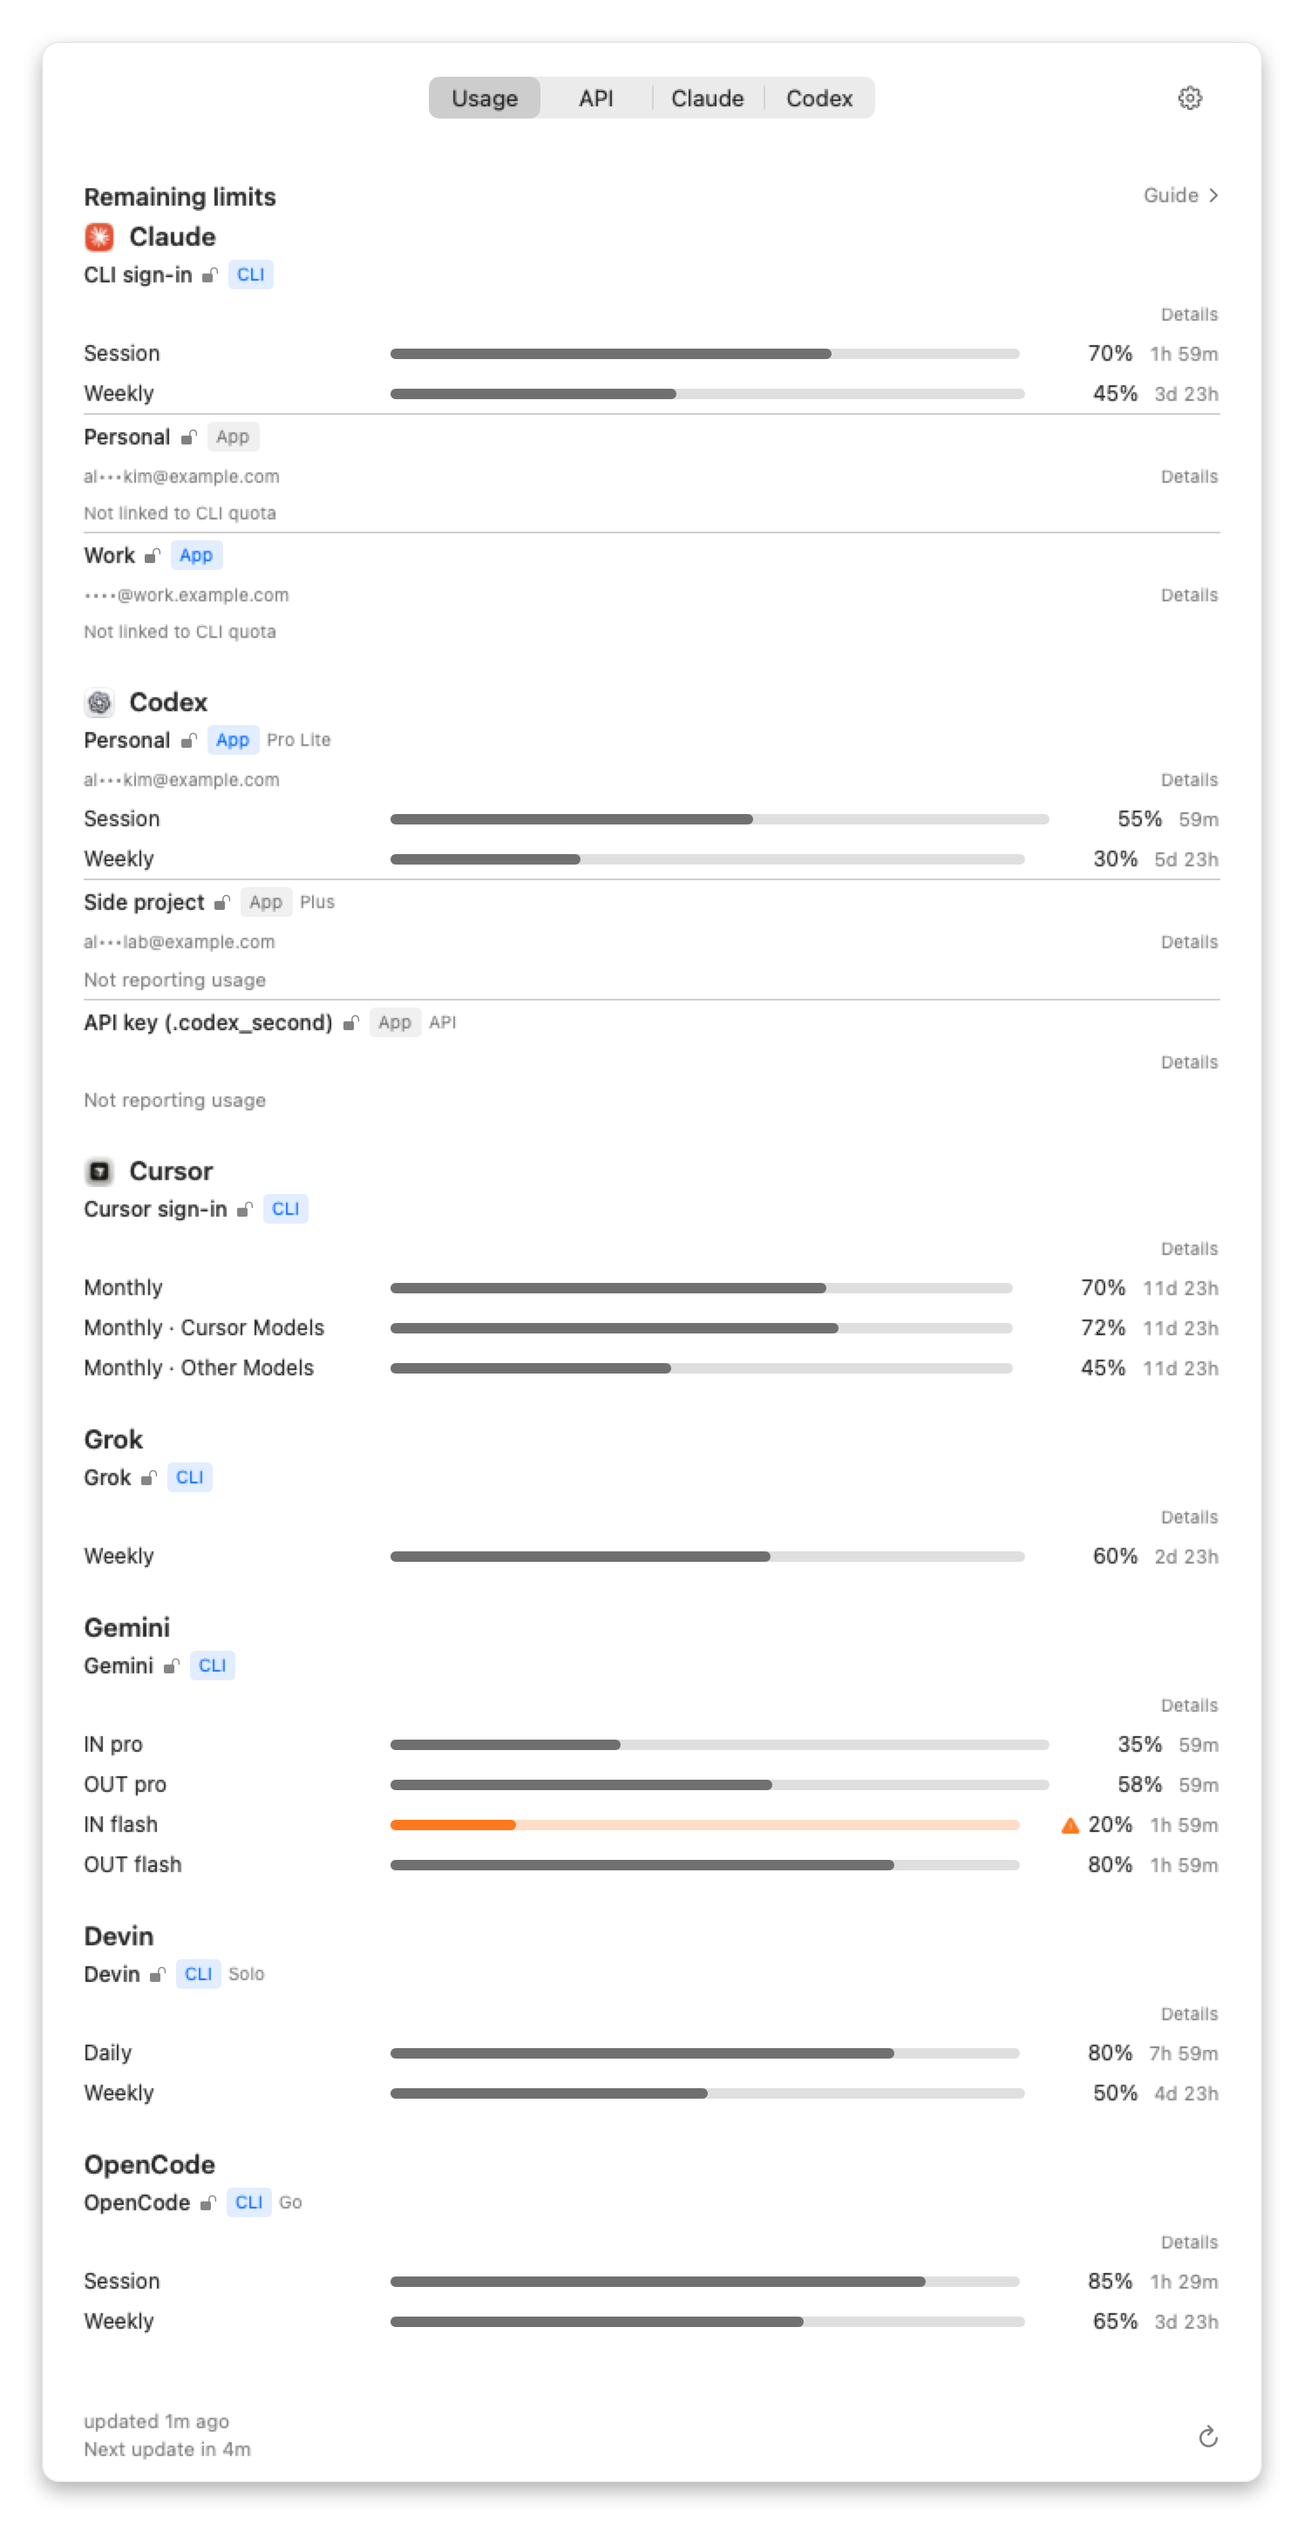
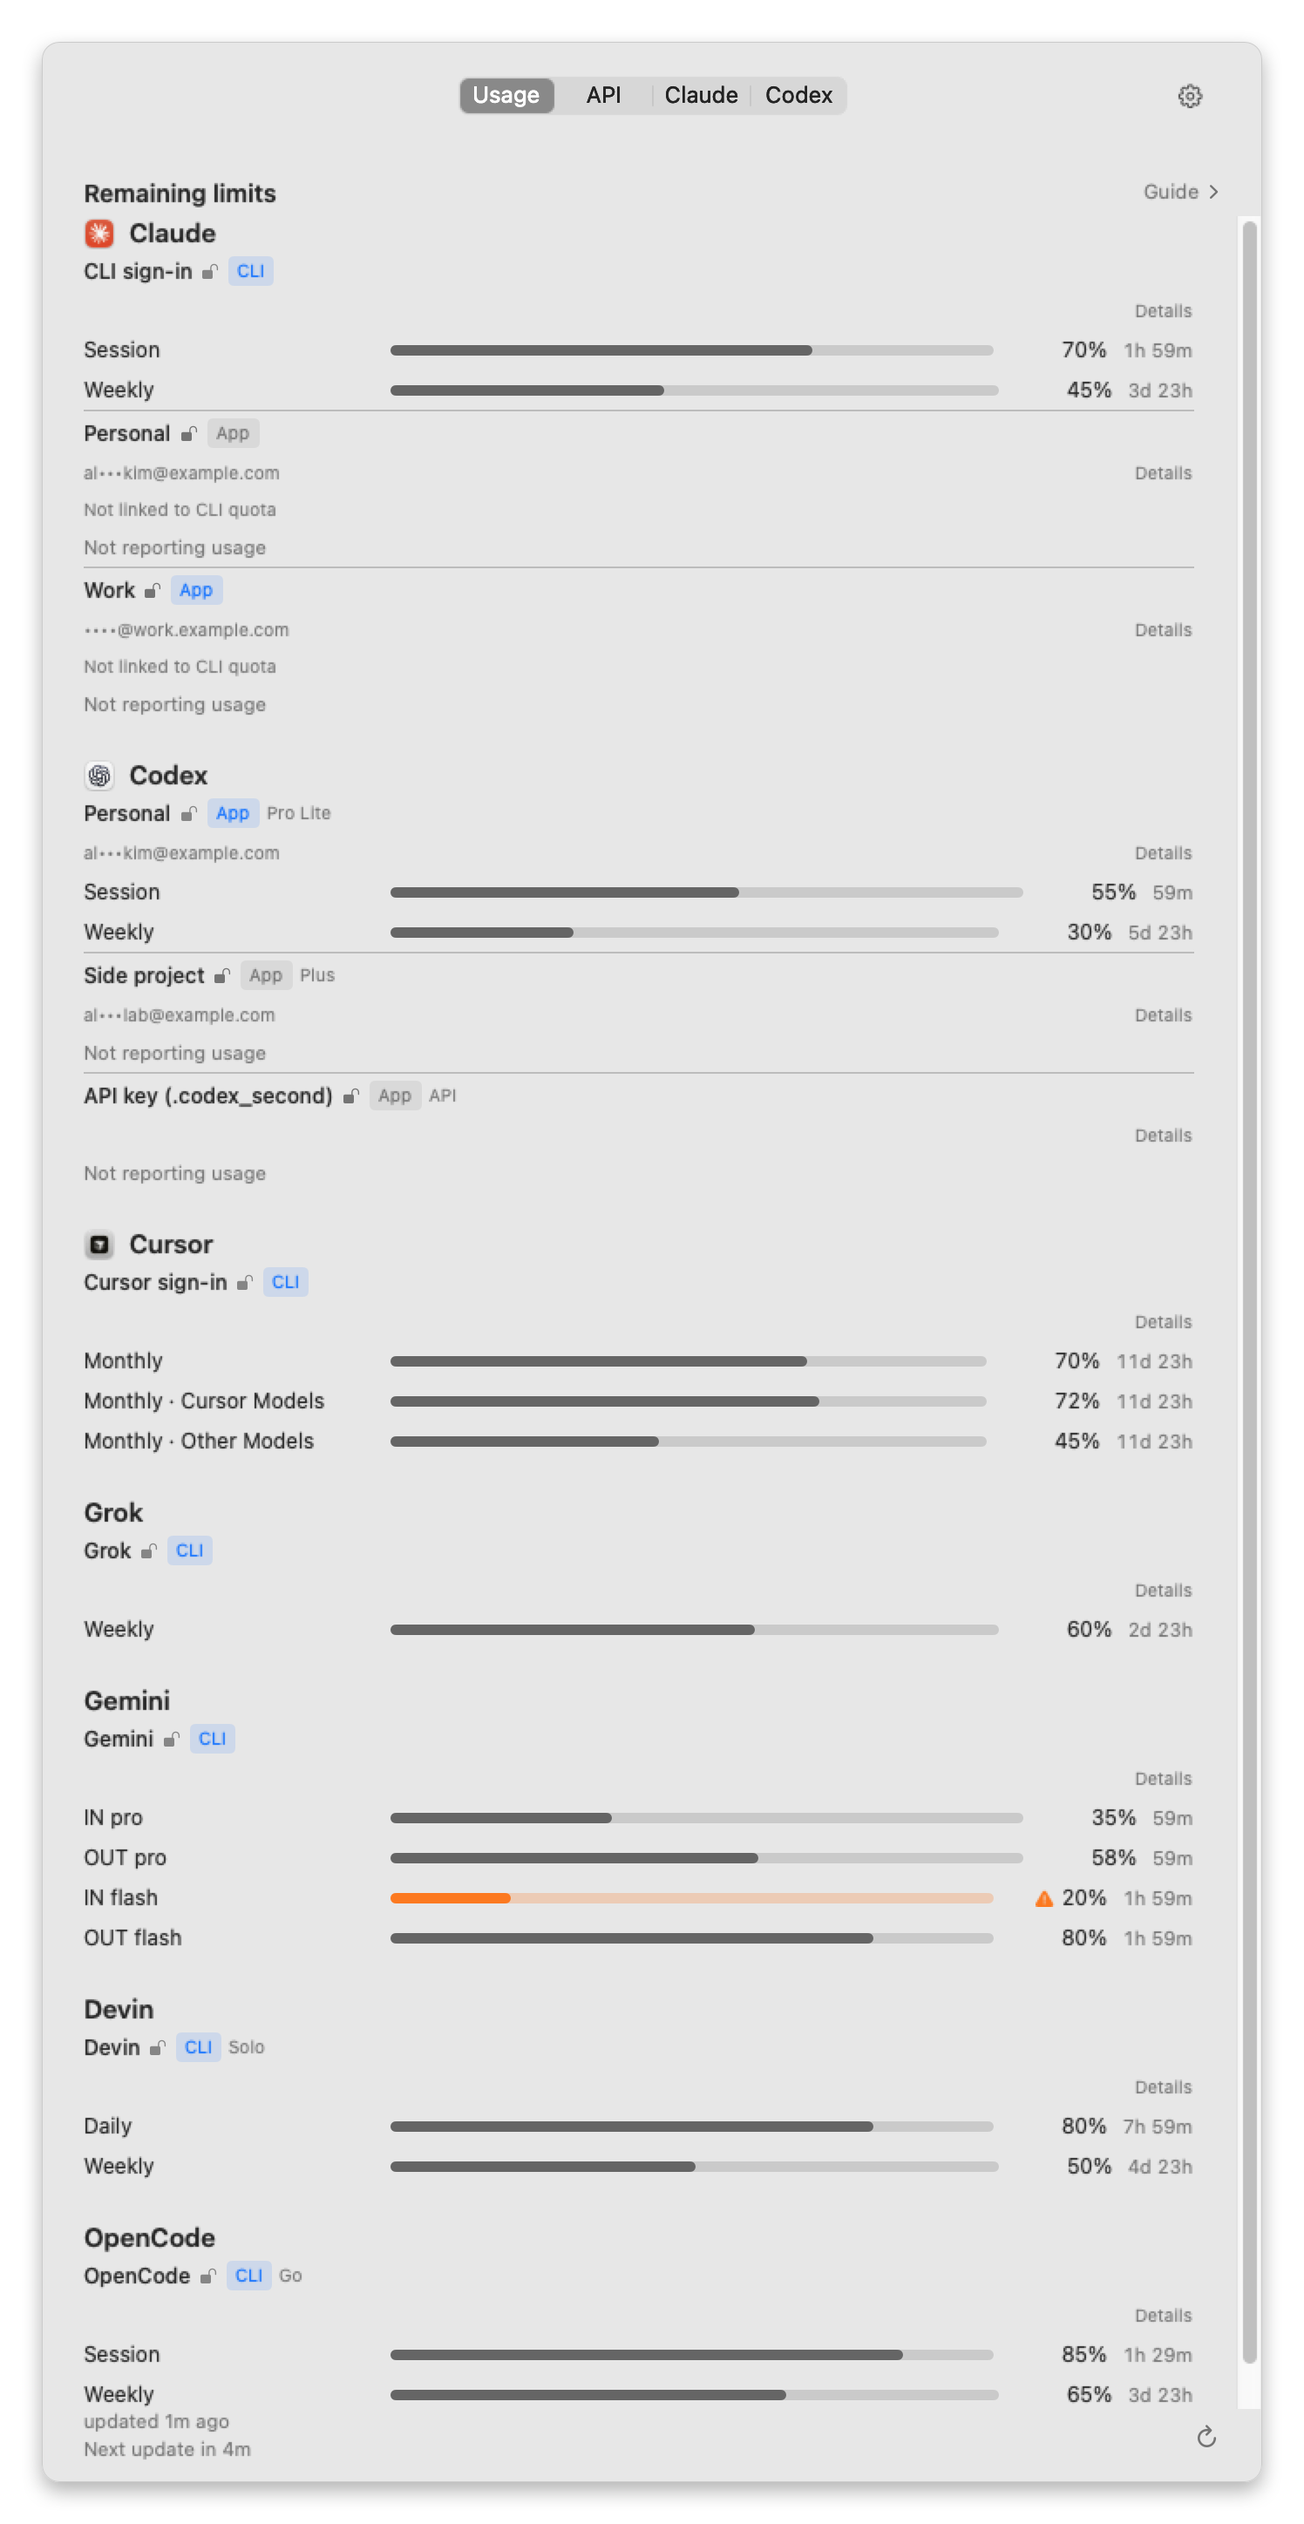
docs: refresh README screenshots and 2.3.x wording
- Regenerate every README screenshot and demo.gif (5 languages) from the
  app's demo fixtures with the 2.3.2 build; the previous set predates 2.2
- What it does: updates are checked only when asked, or daily once
  allowed (no longer "no background updater"); seven optional tools,
  not six; a tool turned off or hidden leaves the list
- The default-off list names GitHub Copilot
- ko/ja/zh-Hans/es: the update paragraph now matches the Sparkle
  behaviour already described in English
- PRIVACY: the feed ships; checks run on request, or daily once allowed

diff --git a/README.ko.md b/README.ko.md
@@ -56,10 +56,10 @@ macOS 네이티브 메뉴 막대 앱입니다.
 | | |
 |---|---|
 | 📊 **모든 한도를 한눈에** | 계정마다 세션·일일·주간·월간 한도를 **남은** 비율과 초기화까지 남은 시간으로 보여 줍니다. |
-| 🧭 **실제로 쓰는 것만** | 이 Mac에 설치된 도구와 등록한 계정만 목록에 나옵니다. 없는 도구는 나타나지 않고, 그 도구의 정보를 읽지도 않습니다. Claude와 Codex의 로컬 사용 로그는 가이드와 API 탭을 위해 항상 읽습니다 — 끌 수는 없습니다. |
+| 🧭 **실제로 쓰는 것만** | 이 Mac에 설치된 도구와 등록한 계정만 목록에 나옵니다. 없는 도구는 나타나지 않고, 그 도구의 정보를 읽지도 않습니다. 끄거나 숨긴 도구도 목록에서 빠집니다. Claude와 Codex의 로컬 사용 로그는 가이드와 API 탭을 위해 항상 읽습니다 — 끌 수는 없습니다. |
 | 💡 **추천만 할 뿐, 자동으로 움직이지 않음** | **가이드**는 항상 읽는 로컬 로그로 남은 한도에 맞는 계정과 모델, 노력 수준을 추천합니다. 스스로 계정을 전환하거나 앱을 열거나 로그인하지 않습니다. |
 | 🔁 **클릭 한 번으로 전환** | 저장한 계정 사이에서 Claude Desktop 로그인을 바꿉니다. 전환 결과를 확인하고, 실패하면 자동으로 되돌립니다. Codex 계정은 각각 다른 창에서 나란히 엽니다. |
-| 🔒 **개인정보 우선 설계** | 분석·원격 측정·백그라운드 자동 업데이트가 없습니다. 이메일은 가려서 보여 줍니다. 선택 도구 여섯 개는 직접 켜기 전까지 꺼져 있습니다. |
+| 🔒 **개인정보 우선 설계** | 분석·원격 측정이 없습니다. 업데이트는 직접 확인할 때만, 또는 허용한 뒤에만 하루 한 번 확인합니다. 이메일은 가려서 보여 줍니다. 선택 도구 일곱 개는 직접 켜기 전까지 꺼져 있습니다. |
 
 ## 동작 모습
 
@@ -83,7 +83,7 @@ macOS 네이티브 메뉴 막대 앱입니다.
 
 릴리스는 Developer ID로 서명하고 Apple 공증을 받았습니다. 그래서 처음 열 때 macOS의 일반적인 "인터넷에서 다운로드한 앱" 확인 창만 나옵니다.
 내려받은 파일을 검증하려면 릴리스에 함께 올린 `SHA256SUMS.txt`를 사용하세요.
-업데이트는 **⚙ › 업데이트 확인…**에서 합니다. 릴리스 페이지를 열어 줄 뿐이며, 백그라운드에서 스스로 업데이트하지 않습니다.
+업데이트는 **⚙ › 업데이트 확인…**에서 합니다. 업데이트 피드가 켜진 빌드에서는 앱 안에서 바로 확인하고, 설치 전에는 항상 묻습니다. 백그라운드에서 하루 한 번 다시 확인할지는 Sparkle이 처음 한 번 묻는 창에서 정합니다. 피드가 없는 빌드에서는 릴리스 페이지를 엽니다.
 
 ## 시작하기
 
@@ -94,7 +94,7 @@ macOS 네이티브 메뉴 막대 앱입니다.
 
 ### 2. 사용하는 도구 켜기 (선택)
 
-Cursor, Grok, Gemini, Antigravity, Devin, OpenCode Go는 **기본으로 꺼져 있습니다**. 사용하는 도구마다 다음 순서로 켭니다.
+Cursor, Grok, Gemini, Antigravity, Devin, OpenCode Go, GitHub Copilot은 **기본으로 꺼져 있습니다**. 사용하는 도구마다 다음 순서로 켭니다.
 
 - 그 도구 행의 **사용량 연결**을 클릭하거나 **⚙ › 사용량 연결**을 엽니다.
 - 확인 창을 읽습니다. 무엇을 읽고 요청을 어디로 보내는지 정확히 적혀 있습니다.

diff --git a/README.es.md b/README.es.md
@@ -55,10 +55,10 @@ Una app nativa de macOS para la barra de menús, pensada para quienes trabajan c
 | | |
 |---|---|
 | 📊 **Todos los límites de un vistazo** | Límites de sesión, diarios, semanales y mensuales de cada cuenta, mostrados como la parte que **queda** y el tiempo hasta el reinicio. |
-| 🧭 **Solo lo que de verdad usa** | La lista muestra las herramientas instaladas en este Mac y las cuentas que registró. Una herramienta que no tiene nunca aparece, y nada se lee de ella. Para Claude y Codex, los registros de uso locales detrás de la Guía y la pestaña API siempre se leen — eso no se puede desactivar. |
+| 🧭 **Solo lo que de verdad usa** | La lista muestra las herramientas instaladas en este Mac y las cuentas que registró. Una herramienta que no tiene nunca aparece, y nada se lee de ella; una que apague u oculte sale de la lista. Para Claude y Codex, los registros de uso locales detrás de la Guía y la pestaña API siempre se leen — eso no se puede desactivar. |
 | 💡 **Una sugerencia, nunca un piloto automático** | La **Guía** — impulsada por esas lecturas locales siempre activas — sugiere qué cuenta — y qué modelo y esfuerzo — encaja con lo que queda. Nunca cambia, abre ni inicia sesión por sí misma. |
 | 🔁 **Cambio con un clic** | Cambie el inicio de sesión de Claude Desktop entre cuentas guardadas (con verificación y reversión automática), y use cuentas de Codex en paralelo en ventanas independientes. |
-| 🔒 **Privada por diseño** | Sin analítica, telemetría ni actualizaciones en segundo plano. Los correos se muestran ocultos. Las seis herramientas opcionales están apagadas hasta que las encienda una a una. |
+| 🔒 **Privada por diseño** | Sin analítica ni telemetría. Las actualizaciones solo se buscan cuando usted lo pide, o a diario si lo permite. Los correos se muestran ocultos. Las siete herramientas opcionales están apagadas hasta que las encienda una a una. |
 
 ## Verlo en acción
 
@@ -82,7 +82,7 @@ Usted decide cada paso. Que un límite se agote nunca desencadena un cambio, una
 
 Las versiones están firmadas con un Developer ID y notarizadas por Apple, así que macOS solo muestra el aviso habitual de "descargado de Internet" la primera vez.
 Cada versión incluye `SHA256SUMS.txt` por si quiere verificar la descarga.
-Para actualizar, use **⚙ › Buscar actualizaciones…**. Abre la página de versiones; UsageSwitch nunca se actualiza por sí mismo en segundo plano.
+Para actualizar, use **⚙ › Buscar actualizaciones…**. En las versiones con el canal de actualizaciones activado busca ahí mismo — instalar siempre le pregunta antes — y el aviso único de Sparkle decide si además puede comprobar a diario en segundo plano. Si no, abre la página de versiones.
 
 ## Primeros pasos
 
@@ -93,7 +93,7 @@ Si una lista está vacía, esa herramienta aún no ha iniciado sesión — vea [
 
 ### 2. Active las herramientas que usa (opcional)
 
-Cursor, Grok, Gemini, Antigravity, Devin y OpenCode Go están **apagados por defecto**. Para cada uno que use:
+Cursor, Grok, Gemini, Antigravity, Devin, OpenCode Go y GitHub Copilot están **apagados por defecto**. Para cada uno que use:
 
 - haga clic en **Conectar uso** en su fila, o abra **⚙ › Conexiones de uso**;
 - lea el diálogo — indica exactamente qué se lee y a dónde van las peticiones;

diff --git a/README.zh-Hans.md b/README.zh-Hans.md
@@ -55,10 +55,10 @@
 | | |
 |---|---|
 | 📊 **所有额度一目了然** | 每个账户的会话、每日、每周、每月额度，以**剩余**比例和重置时间显示。 |
-| 🧭 **只显示你真在用的** | 列表只展示这台 Mac 上已安装的工具和已注册的账户。没有的工具不出现，也不会读取它的任何信息。Claude 和 Codex 的本地用量日志始终会被读取，用于指南和 API 标签页——这部分无法关闭。 |
+| 🧭 **只显示你真在用的** | 列表只展示这台 Mac 上已安装的工具和已注册的账户。没有的工具不出现，也不会读取它的任何信息；关闭或隐藏的工具也会从列表中移除。Claude 和 Codex 的本地用量日志始终会被读取，用于指南和 API 标签页——这部分无法关闭。 |
 | 💡 **只给建议，不做自动驾驶** | **指南**依据始终读取的本地日志，根据剩余量建议合适的账户、模型和强度。它绝不自行切换、启动或登录。 |
 | 🔁 **一键切换** | 在已保存的账户间更换 Claude Desktop 登录（带校验和自动回滚）；Codex 账户可在独立窗口并行使用。 |
-| 🔒 **隐私优先设计** | 无分析、无遥测、无后台更新。邮箱始终打码。六个可选工具在你逐个开启前保持关闭。 |
+| 🔒 **隐私优先设计** | 无分析、无遥测。只在你手动检查时检查更新，或在你允许后每天检查一次。邮箱始终打码。七个可选工具在你逐个开启前保持关闭。 |
 
 ## 实际效果
 
@@ -82,7 +82,7 @@
 
 发布版本经 Developer ID 签名并经 Apple 公证，因此 macOS 只在首次显示常规的“从互联网下载”提示。
 每个版本附带 `SHA256SUMS.txt`，可用于校验下载。
-更新请用 **⚙ › 检查更新…**。它只打开发布页面；UsageSwitch 不会在后台自行更新。
+更新请用 **⚙ › 检查更新…**。在启用了更新源的版本中，它会就地检查，安装前总会先征求你的同意；是否在后台每天再检查一次，由 Sparkle 的一次性提示决定。没有更新源的版本则打开发布页面。
 
 ## 开始使用
 
@@ -93,7 +93,7 @@
 
 ### 2. 开启你用的工具（可选）
 
-Cursor、Grok、Gemini、Antigravity、Devin、OpenCode Go **默认关闭**。对你使用的每一个：
+Cursor、Grok、Gemini、Antigravity、Devin、OpenCode Go、GitHub Copilot **默认关闭**。对你使用的每一个：
 
 - 点击该行上的**连接用量**，或打开 **⚙ › 用量连接**；
 - 阅读对话框——它会明确说明读取什么、请求发往哪里；

diff --git a/README.md b/README.md
@@ -56,10 +56,10 @@ often with more than one account each.
 | | |
 |---|---|
 | 📊 **Every limit at a glance** | Session, daily, weekly and monthly limits for each account, shown as the share you have **left** and the time until it resets. |
-| 🧭 **Only what you actually use** | The list shows the tools installed on this Mac and the accounts you registered. A tool you don't have never appears, and nothing is read for it. For Claude and Codex, the local usage logs behind the Guide and the API tab are always read — that part can't be turned off. |
+| 🧭 **Only what you actually use** | The list shows the tools installed on this Mac and the accounts you registered. A tool you don't have never appears, and nothing is read for it; one you turn off or hide leaves the list. For Claude and Codex, the local usage logs behind the Guide and the API tab are always read — that part can't be turned off. |
 | 💡 **A hint, never an autopilot** | The **Guide** suggests which account, model and effort fit what's left, using those local log reads. It never switches, launches or signs in on its own. |
 | 🔁 **Switch in one click** | Swap the Claude Desktop sign-in between saved accounts (verified, with automatic rollback), and run Codex accounts side by side in separate windows. |
-| 🔒 **Private by design** | No analytics, telemetry or background updater. Emails are masked. The six optional tools stay off until you turn each one on. |
+| 🔒 **Private by design** | No analytics or telemetry. Updates are checked only when you ask, or daily once you allow it. Emails are masked. The seven optional tools stay off until you turn each one on. |
 
 ## See it in action
 
@@ -94,7 +94,7 @@ If a list is empty, that tool isn't signed in yet — see [Status messages](#whe
 
 ### 2. Turn on the tools you use (optional)
 
-Cursor, Grok, Gemini, Antigravity, Devin and OpenCode Go are **off by default**. For each one you use:
+Cursor, Grok, Gemini, Antigravity, Devin, OpenCode Go and GitHub Copilot are **off by default**. For each one you use:
 
 - click **Connect usage** on its row, or open **⚙ › Usage Connections**;
 - read the dialog — it says exactly what is read and where requests go;

diff --git a/PRIVACY.md b/PRIVACY.md
@@ -4,7 +4,7 @@ UsageSwitch stores its account-switching data on your Mac. Optional usage connec
 
 ## Network
 
-UsageSwitch has no analytics, telemetry, or crash reporting. There are no background update checks unless you turn them on: the bundled Sparkle updater stays inert until the app ships a feed and you allow automatic checks in Sparkle's own prompt, and the feed is a static file under this repository's GitHub releases.
+UsageSwitch has no analytics, telemetry, or crash reporting. There are no background update checks unless you turn them on: the bundled Sparkle updater checks only when you choose **Check for Updates…**, or daily once you allow automatic checks in Sparkle's own prompt, and the feed is a static file under this repository's GitHub releases.
 
 **Settings > Usage Connections** offers only detected or previously connected providers. Cursor, Grok, Gemini, Antigravity, Devin, OpenCode and GitHub Copilot usage connections are off by default. Enabling one explains the local sign-in read and read-only HTTPS requests. Disabling it cancels further collection and removes its displayed quota; an already-authorized request may finish, but its obsolete result is discarded.
 
